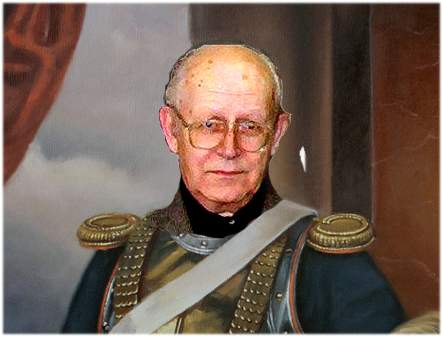
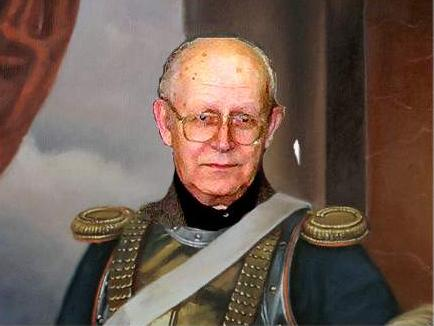
Add files via upload

diff --git a/puzzles/bajan/flag.html b/puzzles/bajan/flag.html
@@ -31,7 +31,7 @@ body {background-color: rgba(250,250,250,0.5);
 #divinp{ position: fixed; top: 720px;}
 #BG{position: fixed; 
   left: 215px; top: 10px;  height:700px;
-  width:875px; -webkit-filter: blur(5px); opacity: 0.8;  
+  width:875px; -webkit-filter: blur(2px); opacity: 0.8;  
 }
 #btn0 {position: fixed; 
   left: 10px; top: 670px;
@@ -94,49 +94,50 @@ Change fiZ and fiY
  <input type="radio" name="radio" value="5" onclick="varfl=+this.value;SetTrans()">_Y**2 <br>
 <p>Background</p>
 Opct<input type="range" value="0.8" min=0.1 max=1 step=0.05 onchange = 'opc = +this.value; SetOpc()'><br>
-Blur<input type="range" value="4" min=0 max=10 step=1 onchange = 'blr = +this.value;  SetBlr()'><br><br> 
+Blur<input type="range" value=2 min=0 max=10 step=1 onchange = 'blr = +this.value;  SetBlr()'><br><br> 
 <p>Flag</p>
 OpcF<input type="range" value="1" min=0.1 max=1 step=0.05 onchange = 'opf = +this.value;SetTrans()'><br>
 BlFl<input type="range" value="0" min=0 max=10 step=1 onchange = 'blf = +this.value; SetTrans()'><br>
 </div>
 <div id="divinp">
-Nx<input type="range" value="7" min=2 max=30 step=1 onchange = 'nx = +this.value;  SetNxy()'>
-Ny<input type="range" value="7" min=2 max=30 step=1 onchange = 'ny = +this.value;  SetNxy()'>
-Zoom  <input type="range" value="25" min=1 max=50 step=1 onchange = 'kzoom = +this.value/25;  SetTrans()'>
+Nx<input type="range" value="10" min=2 max=30 step=1 onchange = 'nx = +this.value;  SetNxy()'>
+Ny<input type="range" value="8" min=2 max=30 step=1 onchange = 'ny = +this.value;  SetNxy()'>
+Zoom  <input type="range" value="37" min=1 max=50 step=1 onchange = 'kzoom = +this.value/25;  SetTrans()'>
 Ampl  <input type="range" value="25" min=1 max=50 step=1 onchange = 'aflag = +this.value;  SetTrans()'>
 Speed <input type="range" value="25" min=1 max=50 step=1 onchange = 'akf = +this.value/100;'>
 
 <input type="button" id="help" value="HELP" onclick="if (d2.style.height=='350px') d2.style.height='0px'; else d2.style.height='350px' ">
+<input type="checkbox" checked onclick="exp=!exp">expansion<br>
 <p id="sN" style = "margin-left: 10px;"> Nx = </p> 
 </div>
 
  <input type='button' id="btn0" value='PLAY'onclick="act = (!act); Run()">
 
 <script type="text/javascript">
-   let Wb,Hb,bgw;  wp=Mycanvas.width; let act = false; imFlag = true;
-	nx=7; ny=7; let opc=0.8; let opf=1.0; blr = 4; blf = 0; let x0,y0;  kzoom = 1.5; flmouse=false;  flfi=false; let dxf = 5; varfl = 0;  Aks = true;
-	document.getElementById("sN").innerHTML= "Nx = "+nx+" ;  Ny= "+ny;
+   let Wb,Hb,bgw;  wp=Mycanvas.width; let act = false; imFlag = true; let exp=true;
+	nx=10; ny=8; let opc=0.8; let opf=1.0; blr = 2; blf = 0; let x0,y0;  kzoom = 1.5; flmouse=false;  flfi=false; let dxf = 5; varfl = 0;  Aks = true;
+  sN.innerHTML= "Nx = "+nx+" ;  Ny= "+ny;
+
 	var canvas=document.getElementById("Mycanvas");
-    var ctx=canvas.getContext("2d");
- var img2=new Image();  // Создаём изображение
+  var ctx=canvas.getContext("2d");
+  var img2=new Image();  // Создаём изображение
  img2.src = "baj.jpg"; 
 
  var div2 = document.getElementById("d2");
 
 function Run(){
  let tim = setInterval(function() {
-   if (!act) {clearInterval(tim); document.getElementById("btn0").value='PLAY'} else
-   document.getElementById("btn0").value='STOP';
+   if (!act) {clearInterval(tim); btn0.value='PLAY'} else btn0.value='STOP';
    SetTrans()
 },50); }//Run
 
 function SetOpc(){BG.style.opacity = opc; SetTrans()}  
-function SetBlr(){BG.style =' width:'+ wp +'px;'+ '-webkit-filter: blur('+blr+'px);opacity:'+opc+';';SetTrans()} 
+function SetBlr(){BG.style =' width:'+ wp +'px;'+ '-webkit-filter: blur('+blr+'px); opacity:'+opc+';';SetTrans()} 
 
 function SetNxy(){
 w0 = W/(nx-0);  h0 =H/(ny-0); 
   if (W>H) {dx = 250/nx; dy = 250/W*H/ny}  else {dy = 250/ny; dx = 250/H*W/nx;}
-	document.getElementById("sN").innerHTML= "Nx = "+nx+" ;  Ny= "+ny;
+	sN.innerHTML= "Nx = "+nx+" ;  Ny= "+ny;
 SetTrans();	
 }
 
@@ -170,11 +171,17 @@ cosz=Math.cos(fiz); cosy=Math.cos(fiy); sinz=Math.sin(fiz); siny=Math.sin(fiy);
 
 var xs=[]; var ys=[]; var xa=[]; var ya=[]; var zs=[];    
 
- kf=0;
+ kf=0;  let kf1=0;  let kfv=0;  let Nst=200;  n0=0.75*Nst; n1=0.85*Nst; n2=0.9*Nst; let zxy=0;
+ function fz(k){if (k==0){zxy=(kf1<n0) ? 0 : 
+          (kf1<n1) ? (kf1-n0)/(n1-n0) :
+          (kf1<n2) ? 1 : 1-(kf1-n2)/(Nst-n2)} else {
+          zxy=(kf1<n1) ? 0 : 4*(kf1-n1)/(Nst-n1) 
+          }} 
 function SetTrans(){ 
   function clearCanvas() {canvas.height=700;}
-  clearCanvas();
-  Mycanvas.style = '-webkit-filter: blur('+blf+'px); opacity:'+ opf+';'       
+  clearCanvas(); if (exp) {fz(kfv); zx=30*zxy; zy=25*zxy;} else {zx=0; zy=0}
+  Mycanvas.style = '-webkit-filter: blur('+blf+'px); opacity:'+ opf+';' 
+  kf1=kf1+1;  if (kf1==Nst) {kf1=0; kfv=1-kfv} 
  for (i = 0; i < nx+1; i++) {
  	  xs[i] = [];  ys[i] = [];  xa[i] = [];  ya[i] = []; zs[i] = [];
  for (j = 0; j < ny+1; j++) {	  
@@ -192,14 +199,13 @@ switch (varfl) {
   xa[i][j] = xr+xris;  ya[i][j] = yr + yris;
 }}
  for (i = 0; i < nx; i++) {
- for (j = 0; j < ny; j++) {	
-
+ for (j = 0; j < ny; j++) {
    w01 = xa[i+1][j]-xa[i][j];        h01=ya[i][j+1]-ya[i][j];  
    sy = (ya[i+1][j]-ya[i][j])/w01;  sx = (xa[i][j+1]-xa[i][j])/h01; 
    if (w01>0) {skx =1; } else {skx =-1; };
    if (h01>0) {sky =1; } else {sky =-1; };
 ctx.setTransform(skx,skx*sy,sky*sx,sky,-ya[i][j]*sx,-xa[i][j]*sy);  //матрица поворота и др.
-ctx.drawImage(img2,w0*i,h0*j,w0,h0,skx*xa[i][j],sky*ya[i][j],skx*1.05*w01,sky*1.05*h01); 
+ctx.drawImage(img2,w0*i,h0*j,w0,h0,skx*xa[i][j]+zx*i,sky*ya[i][j]+zy*j,skx*1.05*w01,sky*1.05*h01); 
  
 }}  if ((act)&&(!flmouse)&&(!flfi))  kf=kf+1;
 } 
@@ -208,7 +214,7 @@ function aksxy(x,y,z){xt = (x*cosz-y*sinz)*cosy+z*siny; yt = x*sinz+y*cosz;  zt=
   if (Aks) {xr=(xt-yt)*0.82;  yr = (yt+xt)*0.82-zt;} else
            {xr=xt-zt*0.7;  yr = yt+zt*0.7;}
 }
-var divfi=document.getElementById("divfi");
+//var divfi=document.getElementById("divfi");
 divfi.onmousedown= function(obj_event) { 
   flfi = true; x0fi = window.event.offsetX; y0fi = window.event.offsetY; }
 divfi.onmousemove= function(obj_event) { 
